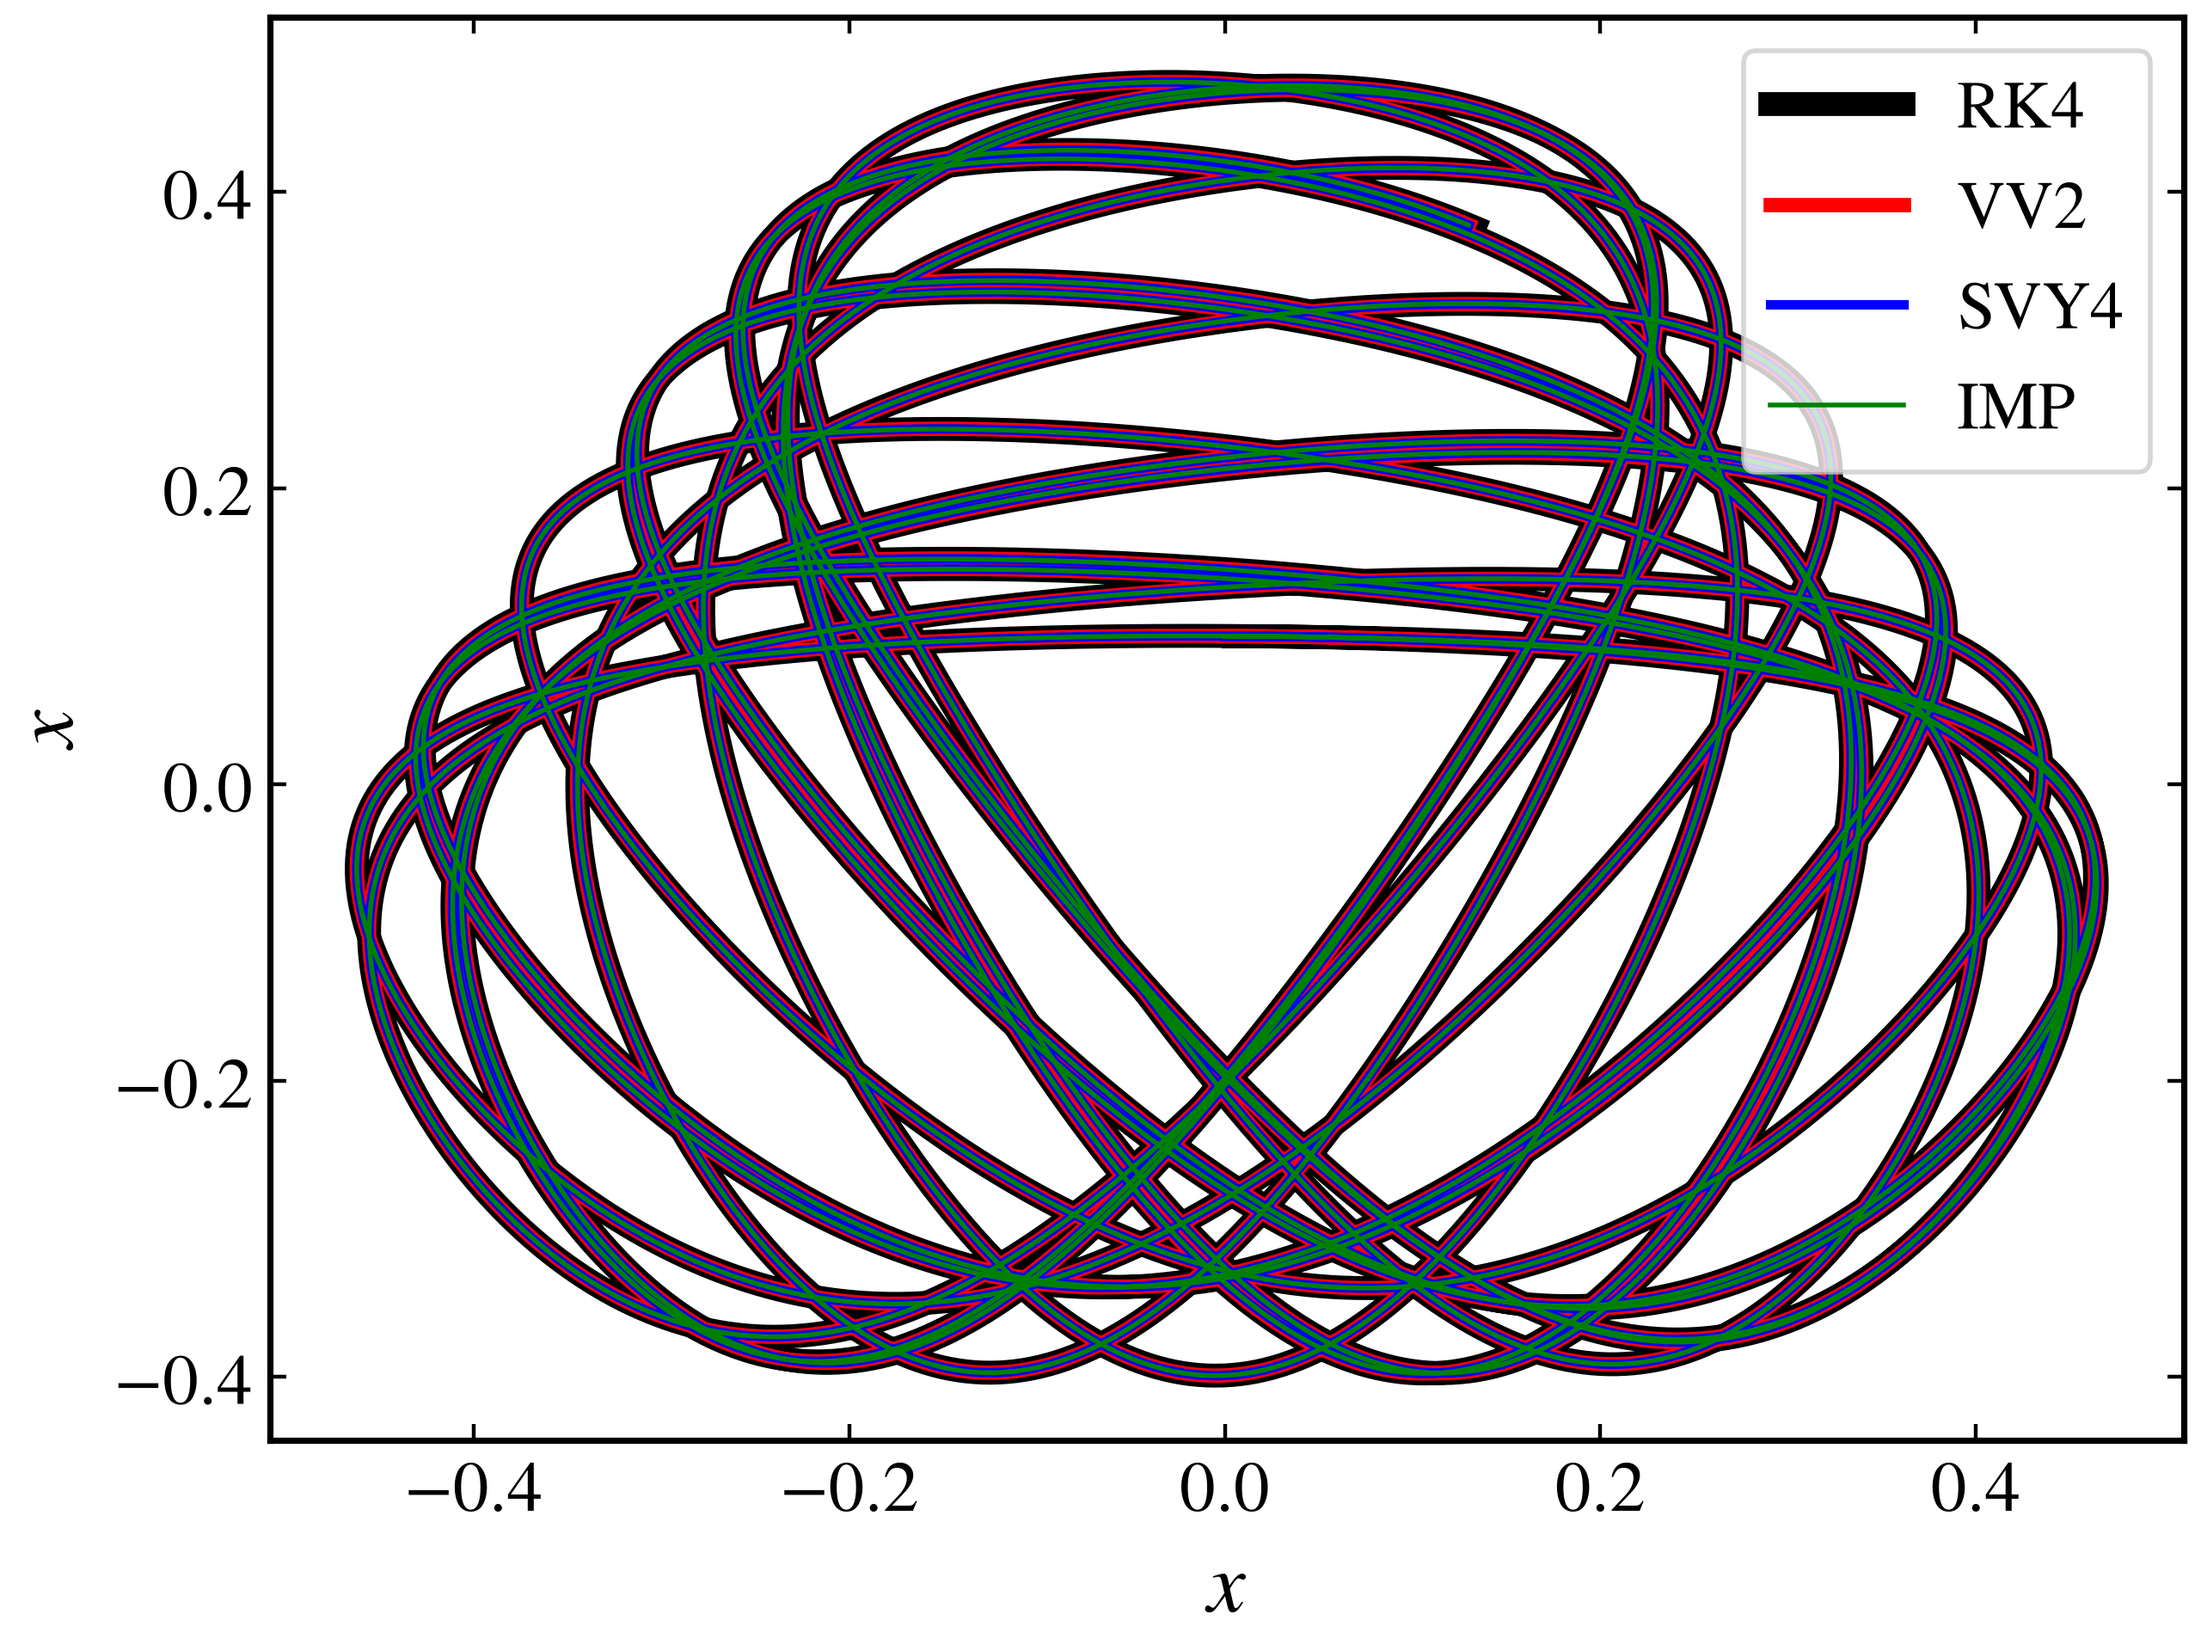
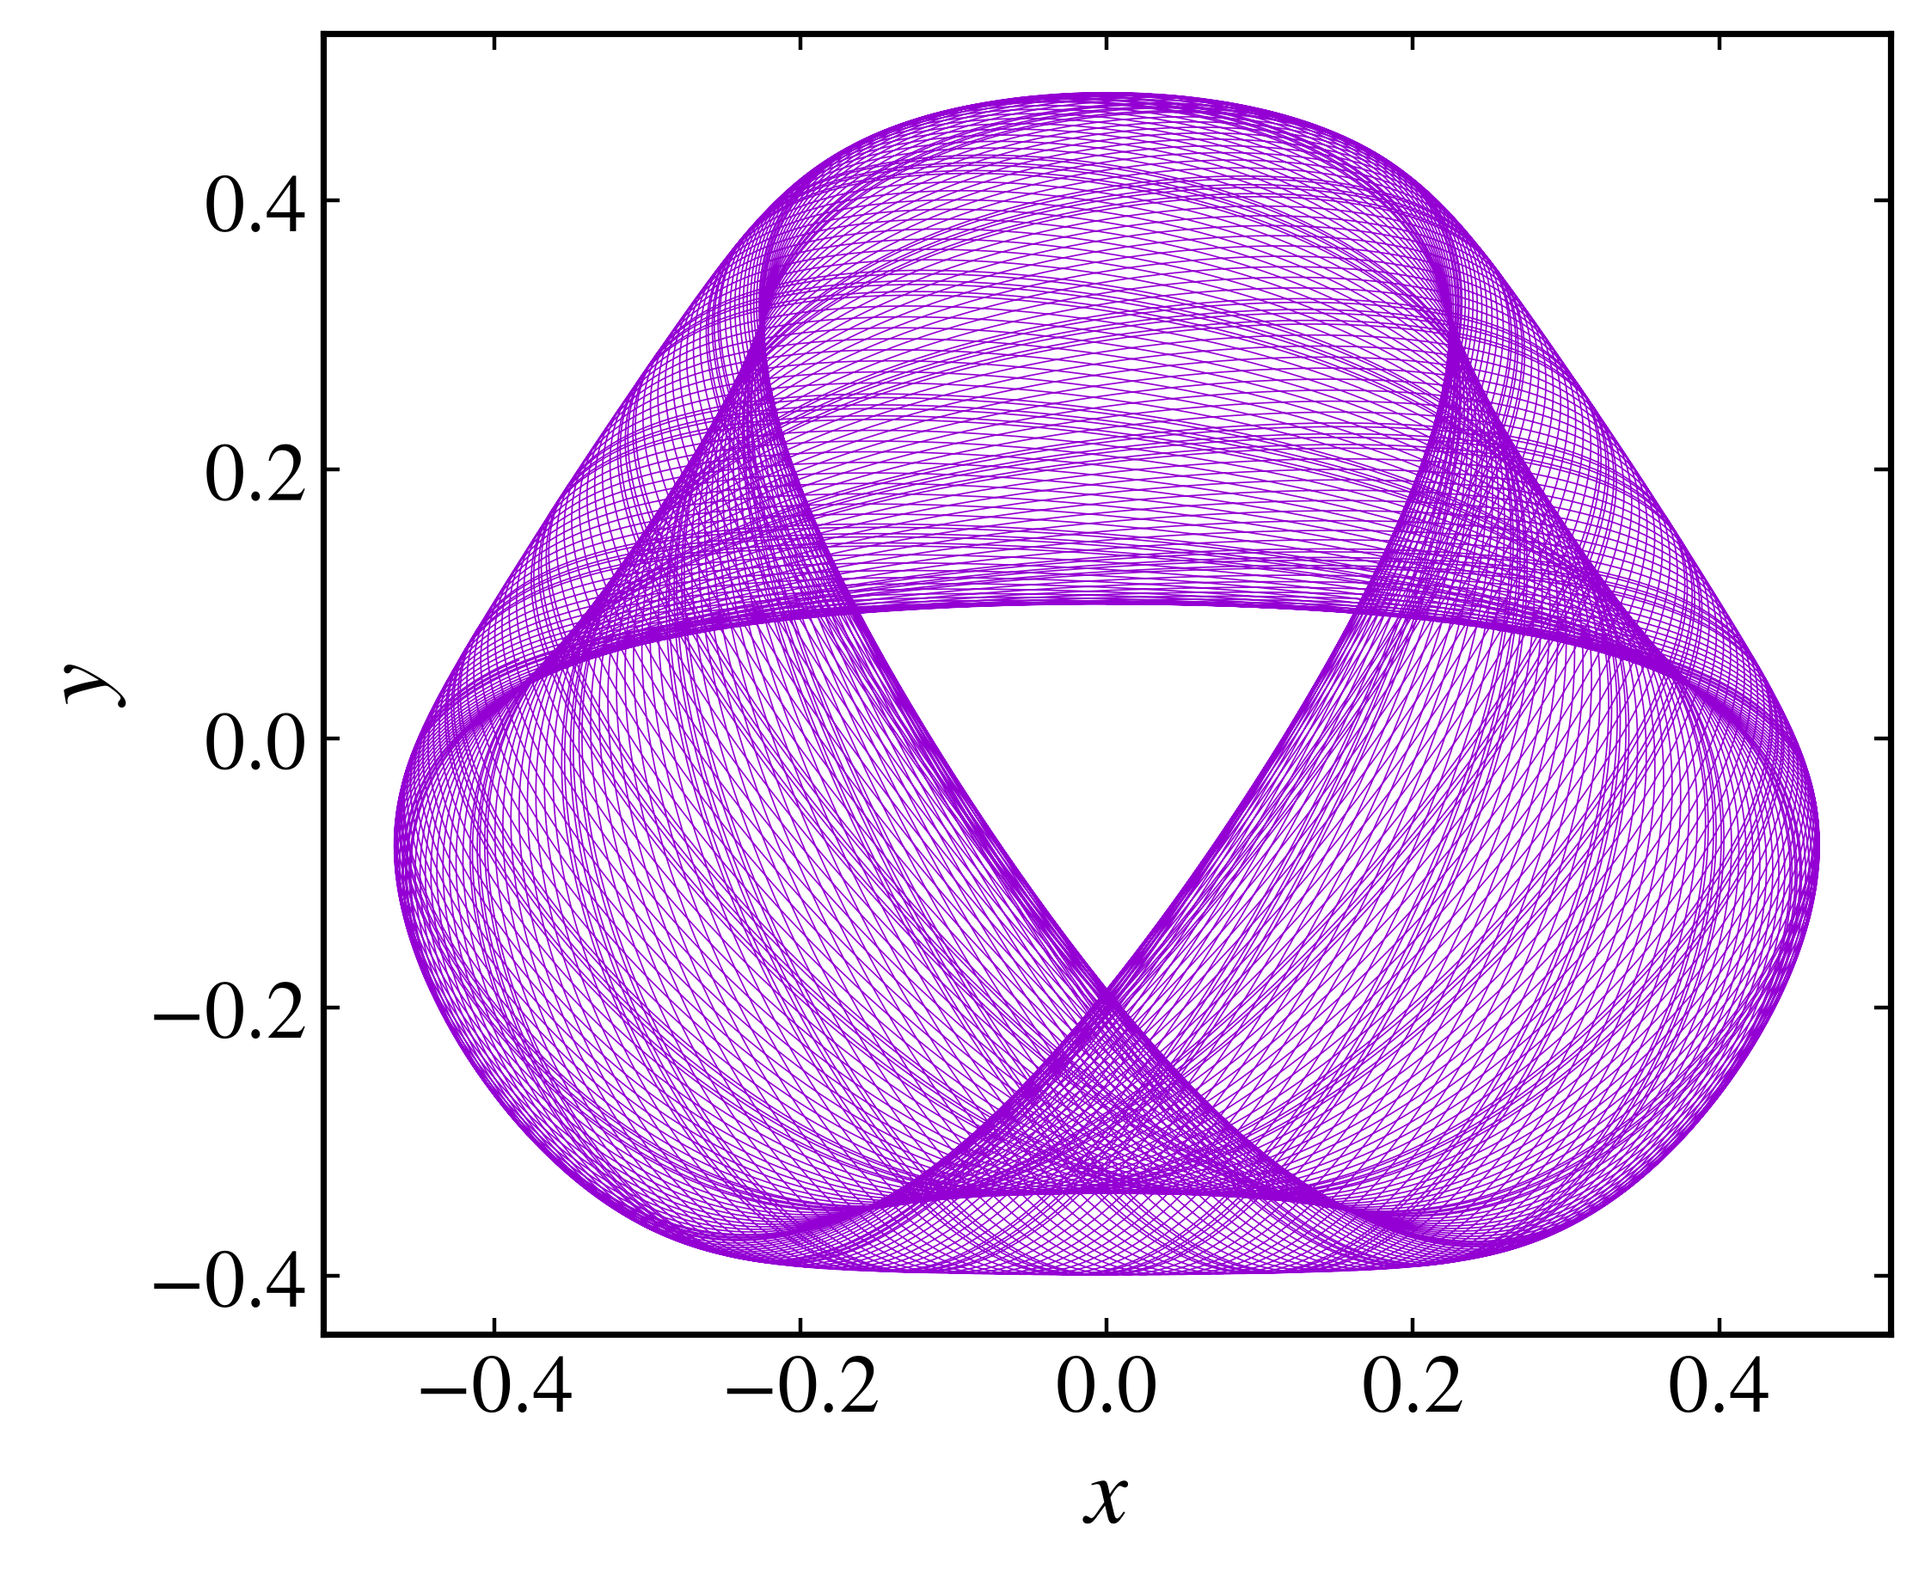
docs: revamp Hamiltonian trajectory guide

diff --git a/docs/source/hs_trajectories.rst b/docs/source/hs_trajectories.rst
@@ -1,111 +1,134 @@
 Generating trajectories
 -----------------------
 
-To generate trajectories for a continuous dynamical system, we use the :py:meth:`trajectory <pynamicalsys.core.hamiltonian_systems.HamiltonianSystem.trajectory>` method of the :py:class:`HamiltonianSystem <pynamicalsys.core.hamiltonian_systems.HamiltonianSystem>` class. This method allows us to specify the initial condition, parameter values, and total time for the simulation. It is possible to choose between three different integrators: the 2nd order velocity Verlet (VV2), the 4th order Yoshida (SVY4), and the implicit midpoint method (IMP). The first two can only be used for separable Hamiltonians.
+The :py:meth:`trajectory <pynamicalsys.core.hamiltonian_systems.HamiltonianSystem.trajectory>` method of the :py:class:`HamiltonianSystem <pynamicalsys.core.hamiltonian_systems.HamiltonianSystem>` class integrates Hamilton's equations from an initial condition given by the coordinates :math:`\mathbf{q}` and the momenta :math:`\mathbf{p}`, which are passed as separate arguments. It returns a NumPy array of shape ``(N, d + 1)``, where ``d`` is the number of state variables (twice the number of degrees of freedom). The first column holds the time samples, and the remaining columns hold the state in the order :math:`(\mathbf{q}, \mathbf{p})`. For the two-degree-of-freedom Hénon-Heiles system these columns are :math:`x`, :math:`y`, :math:`p_x`, and :math:`p_y`.
+
+The integrators are symplectic, so they do not conserve the energy exactly but keep its error bounded over long times, without the secular drift of a general-purpose method.
 
 Choosing the integrator
 ~~~~~~~~~~~~~~~~~~~~~~~
 
-To choose the integrator, we use the :py:meth:`integrator <pynamicalsys.core.hamiltonian_systems.HamiltonianSystem.integrator>` method of the :py:class:`HamiltonianSystem <pynamicalsys.core.hamiltonian_systems.HamiltonianSystem>` class. Both VV2 and SVY4 integrators only need the time step, which is set to :math:`10^{-2}` by default:
+The :py:meth:`integrator <pynamicalsys.core.hamiltonian_systems.HamiltonianSystem.integrator>` method selects one of three symplectic schemes. The second-order velocity Verlet (``vv2``) and the fourth-order composition of `Yoshida (1990) <https://doi.org/10.1016/0375-9601(90)90092-3>`_ (``svy4``) apply to separable Hamiltonians. The implicit midpoint method (``imp``) applies to general Hamiltonians. All three take a time step, which defaults to :math:`10^{-2}`:
 
 .. code-block:: python
 
     from pynamicalsys import HamiltonianSystem
 
-    ds = HamiltonianSystem(model="henon heiles")
-    ds.integrator("svy4", time_step=0.005)
+    system = HamiltonianSystem(model="henon heiles")
+    system.integrator("svy4", time_step=0.01)
 
-For the IMP method, it is also possible to specify the tolerance and maximum iterations for the internal root finder:
-
-.. code-block:: python
-
-    ds.integrator("imp", time_step=0.005, tol=1e-9, max_iter=10000)
-
-
-Trajectories and energy conservation
-~~~~~~~~~~~~~~~~~~~~~~~~~~~~~~~~~~~~
-
-Let's now generate a trajectory for the Hénon-Heiles system using these tree integrators. We first import all the necessary modules to simulate and visualize the trajectories and instanciante the :py:class:`HamiltonianSystem <pynamicalsys.core.hamiltonian_systems.HamiltonianSystem>` class:
-
+The implicit midpoint method solves a nonlinear equation at every step, so it also accepts a tolerance and a maximum number of iterations for the internal root finder:
 
 .. code-block:: python
 
-    from pynamicalsys import HamiltonianSystem, PlotStyler
-    import numpy as np
-    import matplotlib.pyplot as plt
-    import seaborn as sns
+    system.integrator("imp", time_step=0.01, tol=1e-9, max_iter=1000)
 
-    ds = HamiltonianSystem(model="henon heiles")
+A trajectory of the Hénon-Heiles system
+~~~~~~~~~~~~~~~~~~~~~~~~~~~~~~~~~~~~~~~~
 
-Next, we can generate a trajectory by specifying the initial condition, parameters, and total time. The :py:meth:`trajectory <pynamicalsys.core.hamiltonian_systems.HamiltonianSystem.trajectory>` method returns a Numpy array with shape `(N, d + 1)`, where `N` is the number of iterations and `d` is the dimension of the system. The first column corresponds to the time samples at which the trajectory was calculated and the remaing columns correspond to a state variable.
-
-.. code-block:: python
-
-    # Total energy of the system
-    E = 1 / 8 
-
-    # Total integration time
-    total_time = 10000
-
-    # Initial condition
-    x = 0
-    y = 0.1
-    py = 0
-    px = np.sqrt(2 * (E - x**2 * y + y**3 / 3) - x**2 - y**2 - py**2)
-    q = np.array([x, y])
-    p = np.array([px, py])
-
-    # Using VV2 integrator
-    ds.integrator("vv2", time_step=0.01)
-
-    # Generate the trajectory
-    traj_vv2 = ds.trajectory(q, p, total_time)
-
-    # Using SVY4 integrator
-    ds.integrator("svy4", time_step=0.01)
-
-    # Generate the trajectory
-    traj_svy4 = ds.trajectory(q, p, total_time)
-
-    # Using IMP integrator
-    ds.integrator("imp", time_step=0.01, tol=1e-9, max_iter=1000)
-
-    # Generate the trajectory
-    traj_imp = ds.trajectory(q, p, total_time)
-
-Then we can plot the trajectory:
-
-.. code-block:: python
-    ps = PlotStyler(fontsize=18)
-    ps.apply_style()
-
-    points_to_plot = 10000
-    plt.plot(traj_rk4[:points_to_plot, 1], traj_rk4[:points_to_plot, 2], "k", lw=5)
-    plt.plot(traj_vv2[:points_to_plot, 1], traj_vv2[:points_to_plot, 2], "r", lw=3)
-    plt.plot(traj_svy4[:points_to_plot, 1], traj_svy4[:points_to_plot, 2], "b", lw=2)
-    plt.plot(traj_imp[:points_to_plot, 1], traj_imp[:points_to_plot, 2], "g", lw=1)
-
-    plt.xlabel("$x$")
-    plt.ylabel("$x$")
-
-    plt.show()
-
-.. figure:: images/henon_heiles_trajectory.png
-   :align: center
-   :width: 100%
-   
-   A regular trajectory of the Hénon-Heiles system using four different integrators.
-
-To check the energy drift of each integrator, we calculate the relative energy error:
+The Hénon-Heiles system was introduced by `Hénon and Heiles (1964) <https://doi.org/10.1086/109234>`_ and has the Hamiltonian
 
 .. math::
 
-    \begin{equation*}
-        E_r = \frac{\left|E(t) - E_0\right|}{E_0}.
-    \end{equation*}
+    H(x,y,p_x,p_y) = \frac{p_x^2+p_y^2}{2} + \frac{x^2+y^2}{2} + x^2y - \frac{y^3}{3}.
+
+Fix the total energy at :math:`E=1/8` and place the initial condition on that energy surface. With :math:`x=0`, :math:`y=0.1`, and :math:`p_y=0`, the remaining momentum follows from :math:`E=\tfrac{1}{2}(p_x^2+p_y^2)+V(x,y)`:
+
+.. code-block:: python
+
+    import numpy as np
+    import matplotlib.pyplot as plt
+    from pynamicalsys import HamiltonianSystem, PlotStyler
+
+    system = HamiltonianSystem(model="henon heiles")
+    system.integrator("svy4", time_step=0.01)
+
+    energy = 1 / 8
+    x, y, py = 0.0, 0.1, 0.0
+    potential = (x**2 + y**2) / 2 + x**2 * y - y**3 / 3
+    px = np.sqrt(2 * (energy - potential) - py**2)
+
+    q = [x, y]
+    p = [px, py]
+    total_time = 1_000.0
+
+    trajectory = system.trajectory(q, p, total_time)
+
+The columns of ``trajectory`` are time, :math:`x`, :math:`y`, :math:`p_x`, and :math:`p_y`. Plotting the trajectory in the :math:`(x,y)` configuration plane shows the region it explores:
+
+.. code-block:: python
+
+    ps = PlotStyler()
+    ps.apply_style()
+    fig, ax = plt.subplots(figsize=(6, 5))
+    ax.plot(trajectory[:, 1], trajectory[:, 2], color="darkviolet", lw=0.3)
+    ax.set_xlabel("$x$")
+    ax.set_ylabel("$y$")
+    fig.tight_layout()
+    plt.show()
+
+.. figure:: images/henon_heiles_trajectory.png
+    :align: center
+    :width: 80%
+
+    A regular trajectory of the Hénon-Heiles system at energy :math:`E=1/8`, shown in the configuration plane.
+
+The trajectory fills a bounded region with a smooth outer boundary and an empty center, the signature of quasiperiodic motion on an invariant torus. A chaotic trajectory at the same energy would instead spread across the accessible region.
+
+Energy conservation
+~~~~~~~~~~~~~~~~~~~
+
+The quality of a symplectic integrator is seen in the energy error rather than in the trajectory alone. Define the relative energy error
+
+.. math::
+
+    E_r(t) = \frac{\left|E(t)-E_0\right|}{E_0},
+
+and evaluate the Hénon-Heiles Hamiltonian along the trajectory produced by each integrator. Because Hénon-Heiles is separable, all three integrators apply:
+
+.. code-block:: python
+
+    def henon_heiles_energy(trajectory):
+        x, y, px, py = (trajectory[:, i] for i in range(1, 5))
+        return (px**2 + py**2) / 2 + (x**2 + y**2) / 2 + x**2 * y - y**3 / 3
+
+    integrators = {"vv2": "VV2", "imp": "IMP", "svy4": "SVY4"}
+    histories = {}
+    for name in integrators:
+        if name == "imp":
+            system.integrator(name, time_step=0.01, tol=1e-12, max_iter=100)
+        else:
+            system.integrator(name, time_step=0.01)
+        history = system.trajectory(q, p, total_time)
+        error = np.abs(henon_heiles_energy(history) - energy) / energy
+        histories[name] = (history[:, 0], error)
+
+.. code-block:: python
+
+    ps = PlotStyler()
+    ps.apply_style()
+    fig, ax = plt.subplots(figsize=(7, 4.5))
+    for name, label in integrators.items():
+        time, error = histories[name]
+        ax.semilogy(time, error, lw=0.8, label=label)
+    ax.set_xlabel("$t$")
+    ax.set_ylabel(r"$E_r = |E(t) - E_0| / E_0$")
+    ax.legend()
+    fig.tight_layout()
+    plt.show()
 
 .. figure:: images/henon_heiles_energy_check.png
-   :align: center
-   :width: 100%
-   
-   Relative energy error as a function of time of four different integrators.
+    :align: center
+    :width: 100%
+
+    Relative energy error of the three integrators along the Hénon-Heiles trajectory. The error stays bounded for all three, with no secular growth.
+
+The error remains bounded for every integrator, which is the defining property of symplectic integration. The fourth-order method ``svy4`` is several orders of magnitude more accurate than the second-order ``vv2`` and ``imp`` methods at the same time step. The explicit ``vv2`` and ``svy4`` methods are available here only because the Hénon-Heiles Hamiltonian is separable; a general Hamiltonian, such as the Walker-Ford system in the :doc:`creation guide <hs_creating_hs>`, must use ``imp``.
+
+References
+~~~~~~~~~~
+
+.. container:: references-list
+
+    - M\. Hénon and C\. Heiles, `The applicability of the third integral of motion: Some numerical experiments <https://doi.org/10.1086/109234>`_, The Astronomical Journal 69, 73 (1964).
+    - H\. Yoshida, `Construction of higher order symplectic integrators <https://doi.org/10.1016/0375-9601(90)90092-3>`_, Physics Letters A 150, 262-268 (1990).
